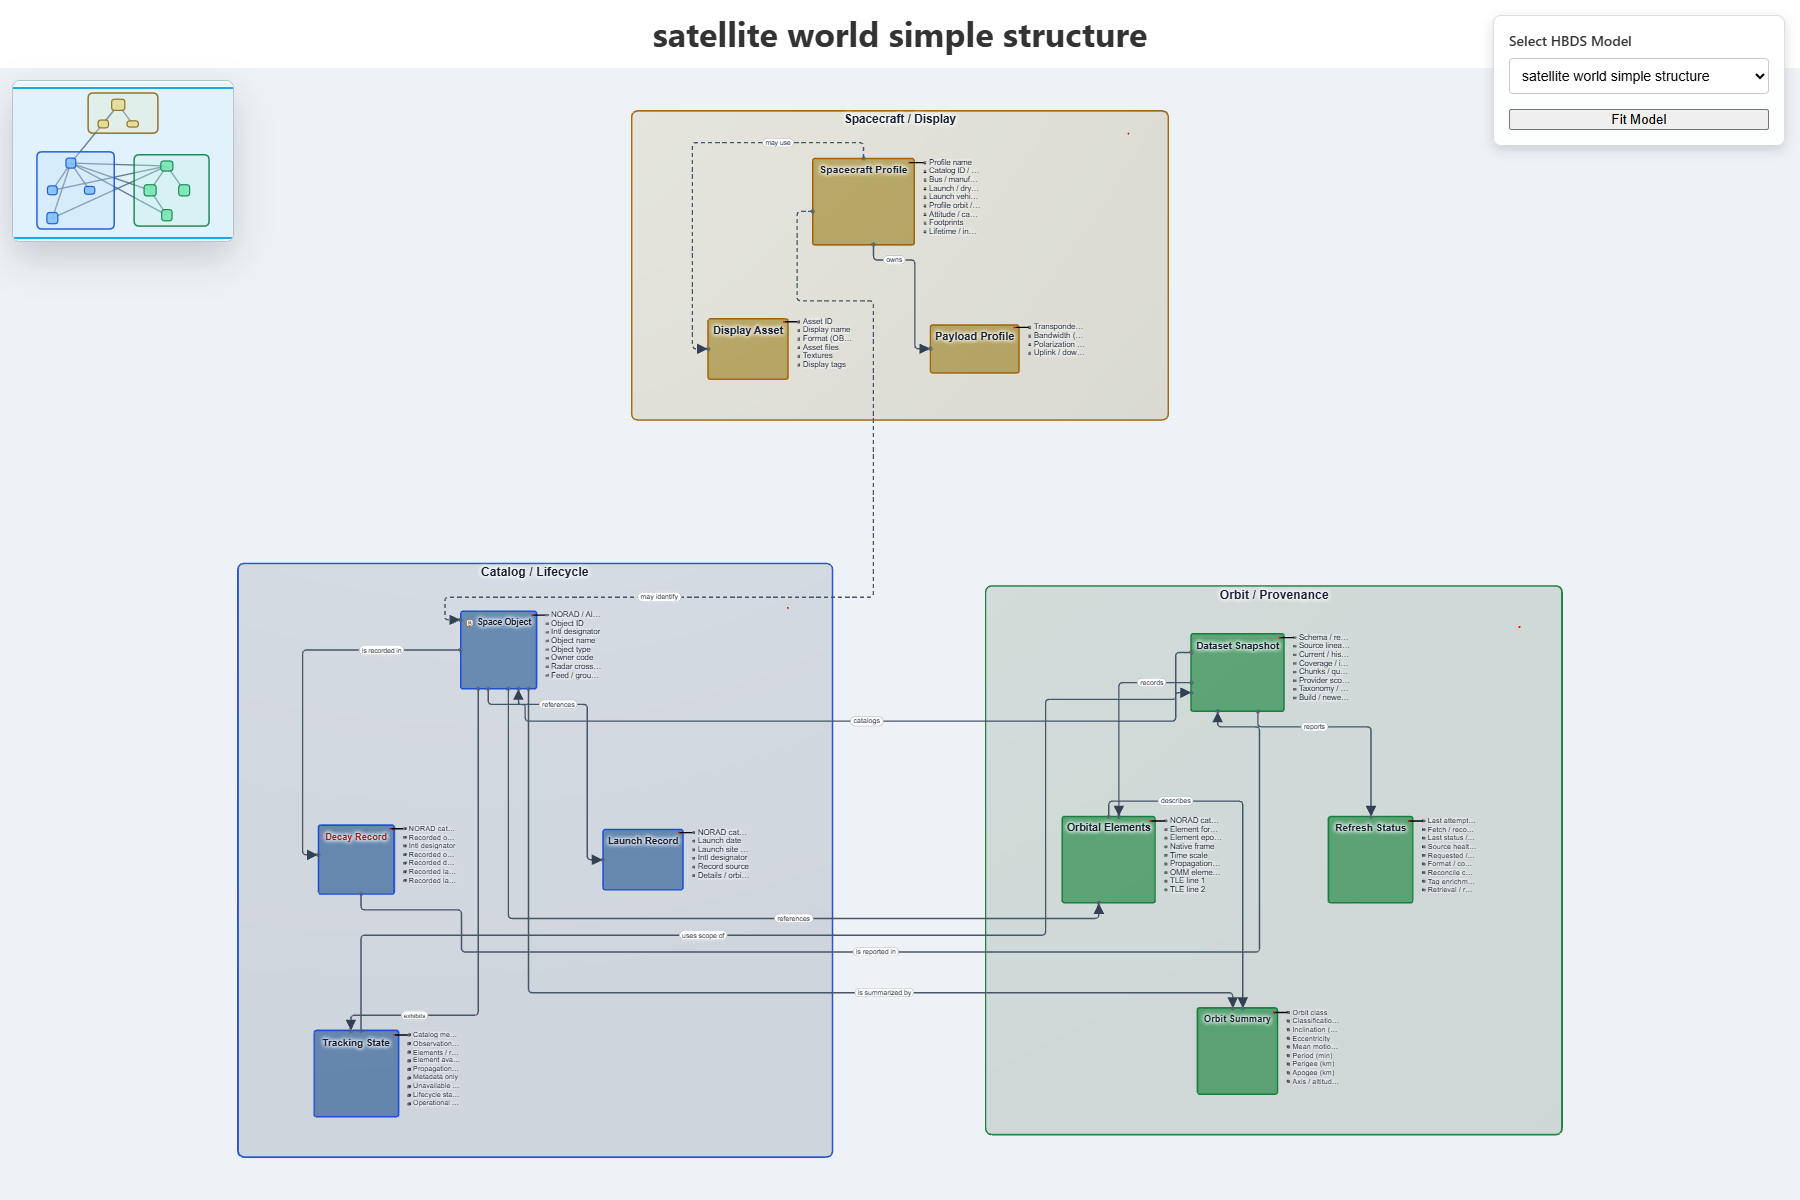
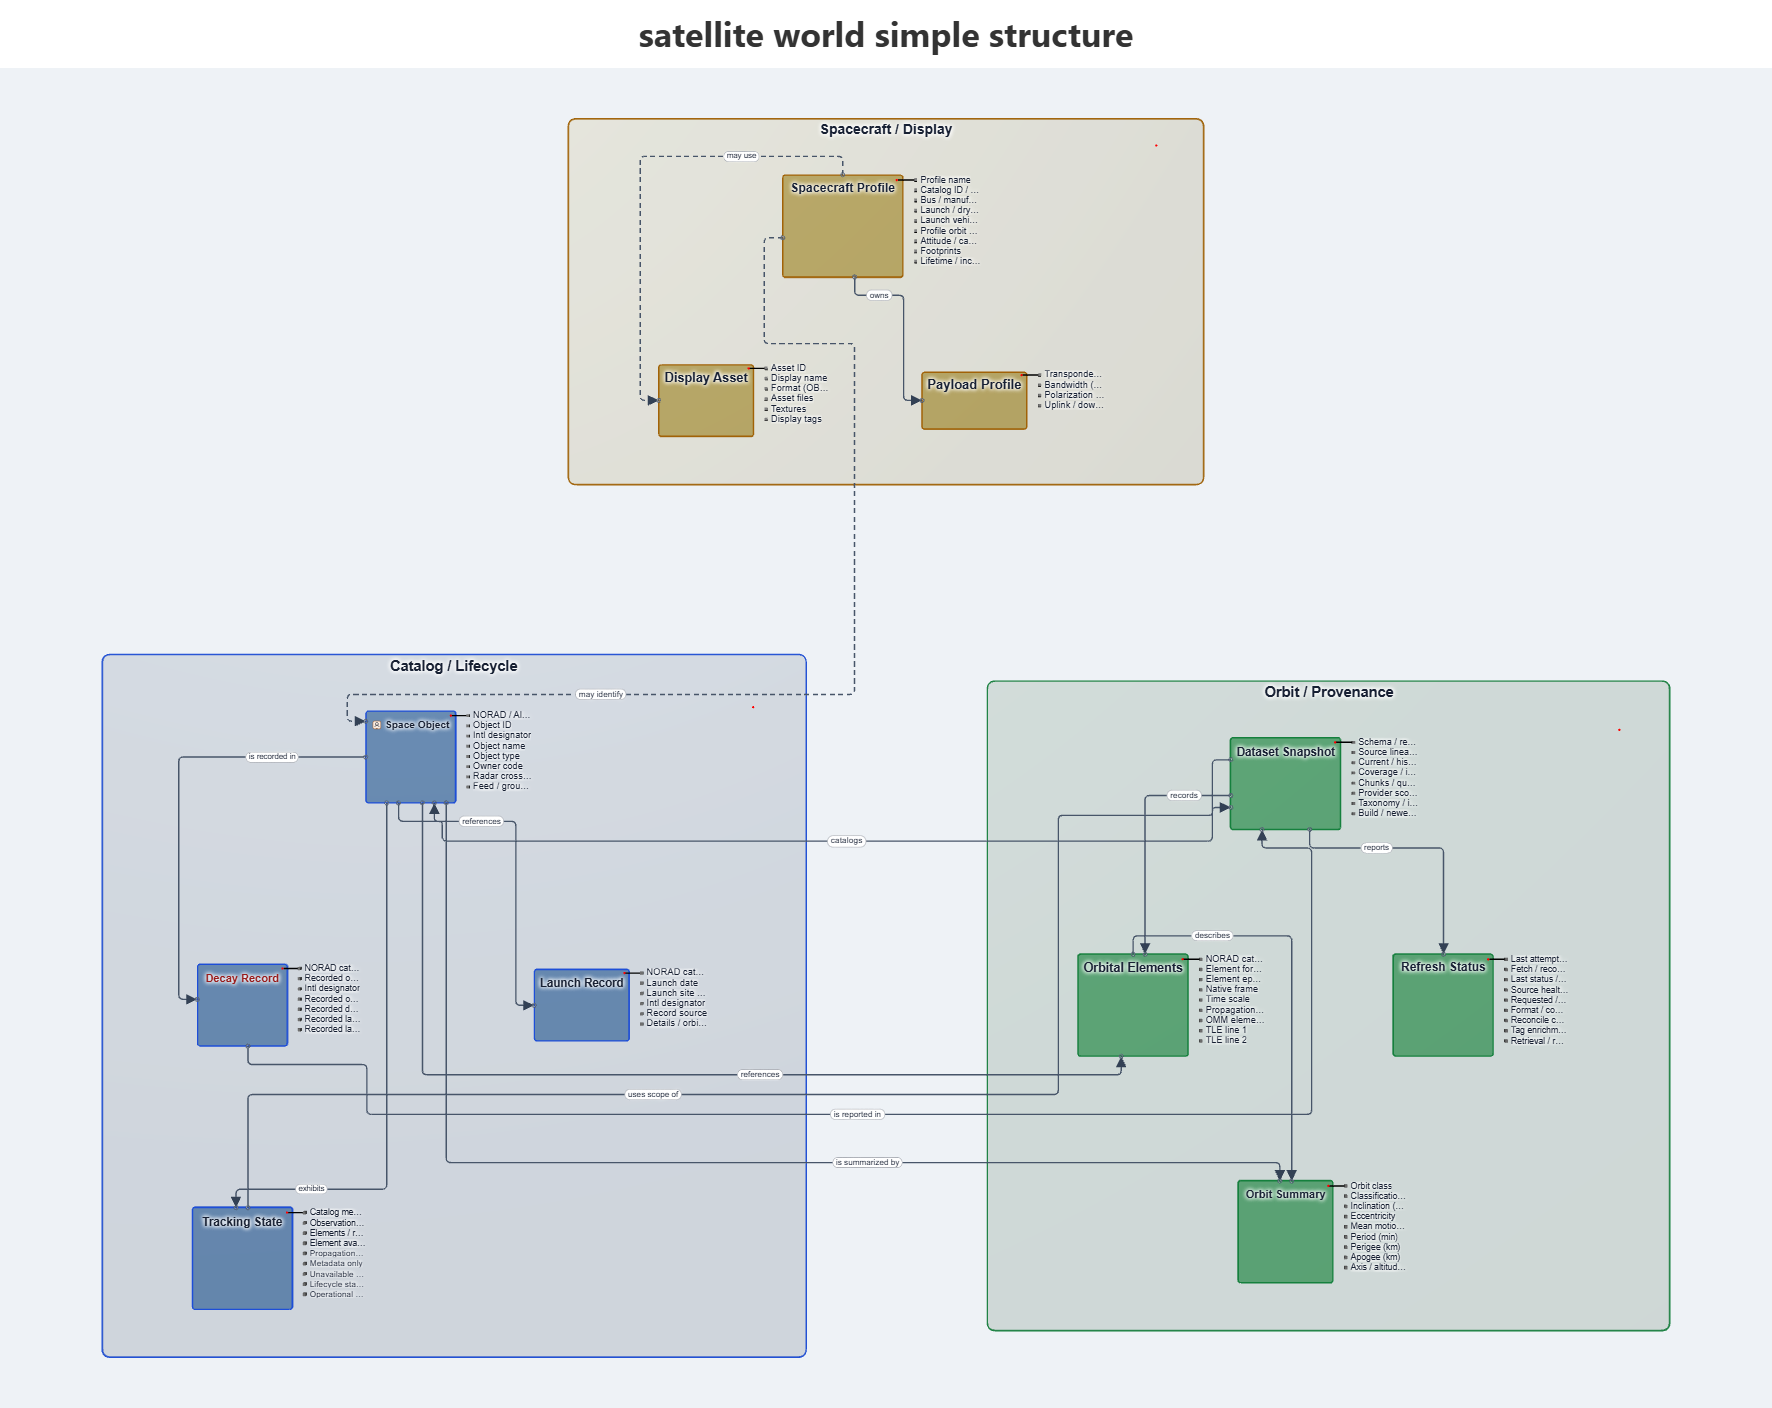
Refresh README diagrams and remove Timeline screenshot

diff --git a/README.md b/README.md
@@ -7,15 +7,14 @@ Model classes, nested hyperclasses, attributes, and relationships in 2-D or 3-D.
 
 ## Examples
 
-Screenshots show the Models view in version 2.6.2.
+Screenshots show the current diagrams in version 2.6.2, with compact attribute
+columns and separated links. Viewer controls are hidden for clarity.
 
 ### OpenBEXI Timeline
 
 The Timeline domain model connects users, filters, presentation models, sources,
 records, namespaces, and shared rendering. [Model and source mapping](doc/OPENBEXI_TIMELINE_MODEL.md)
 and [complete application recreation prompt](prompts/openbexi_timeline_prompt.MD).
-
-![OpenBEXI Timeline HBDS model with Record inside Source and shared Render outside both hyperclasses](pictures/openbexi_timeline.png)
 
 ### Satellite World Simple Structure
 
